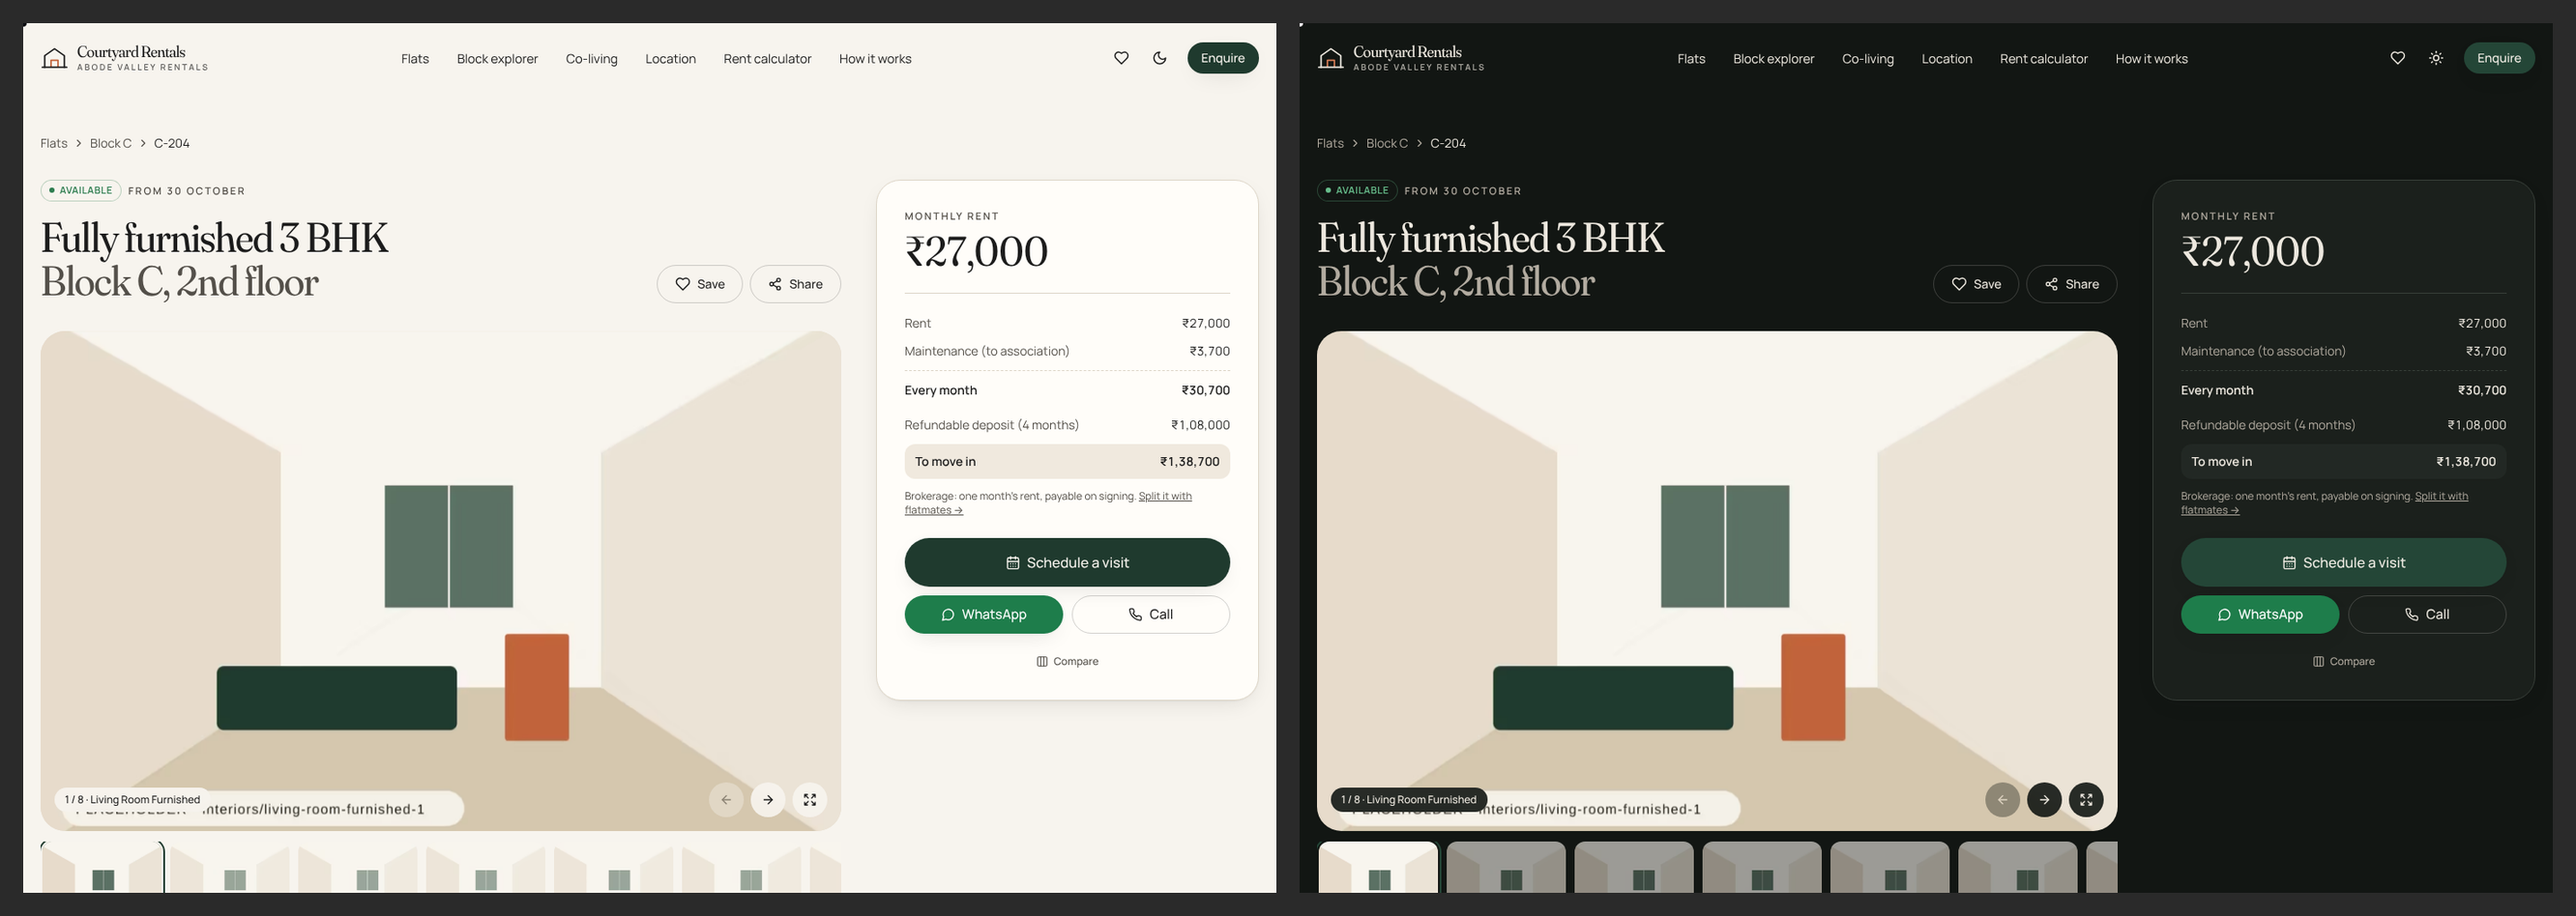
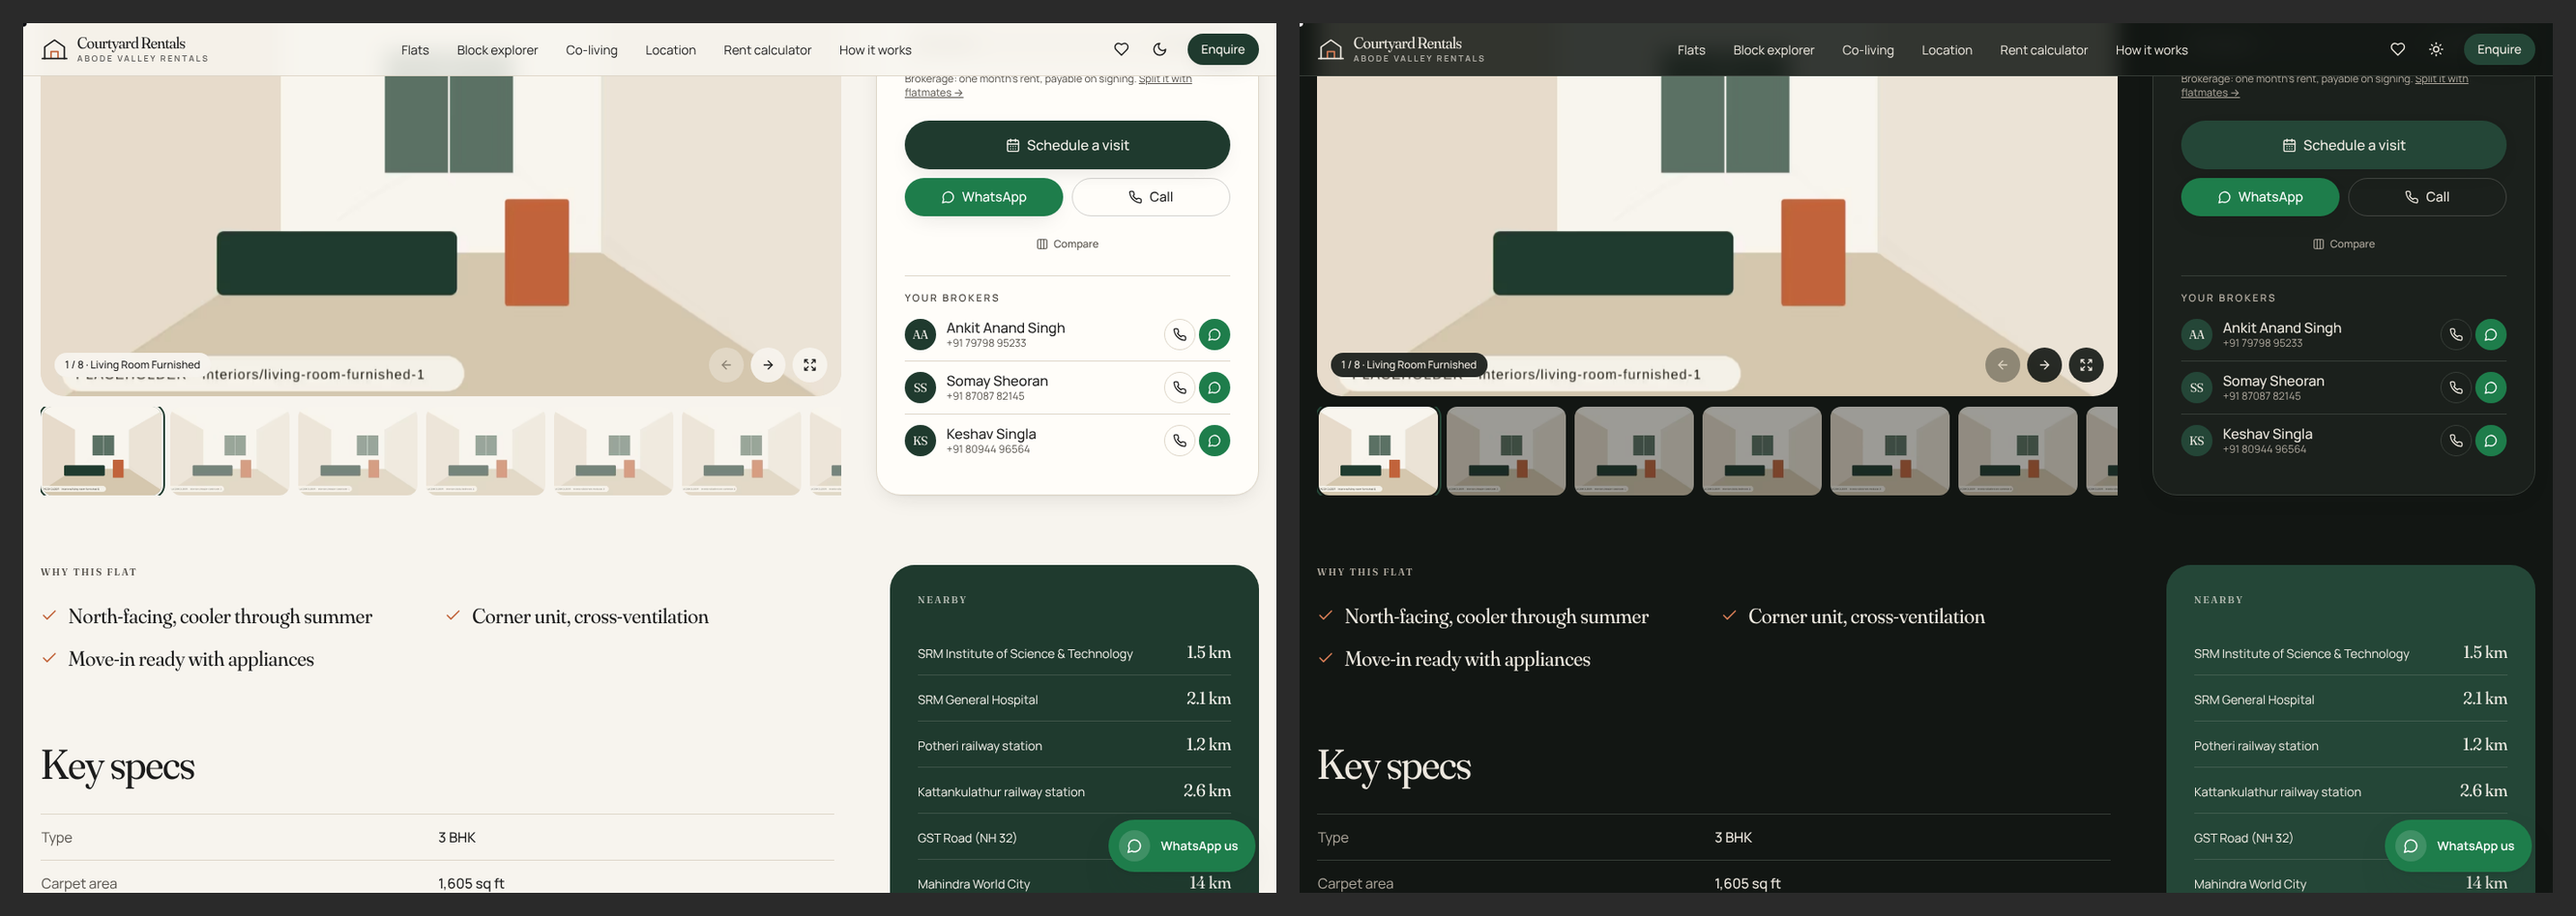
Add broker team (Ankit, Somay, Keshav) to contact, footer, flat pages and about
Claude-Session: https://claude.ai/code/session_01EnTokC2RsE6pinmD8HsrEY

diff --git a/components/team/broker-cards.tsx b/components/team/broker-cards.tsx
@@ -1,0 +1,39 @@
+import { Mail, MessageCircle, Phone } from "lucide-react";
+import type { Broker } from "@/lib/types";
+import { cn, whatsappLink } from "@/lib/utils";
+
+const initials = (name: string) => name.split(" ").map((p) => p[0]).slice(0, 2).join("");
+
+/** One card per broker with direct Call / WhatsApp / Email. Data: data/team.json */
+export function BrokerCards({ team, message, compact, className }: { team: Broker[]; message: string; compact?: boolean; className?: string }) {
+  return (
+    <ul className={cn(compact ? "divide-y divide-line" : "grid gap-5 sm:grid-cols-3", className)}>
+      {team.map((b) => (
+        <li key={b.id} className={cn(compact ? "flex items-center justify-between gap-3 py-3" : "rounded-3xl border border-line bg-card p-6")}>
+          <div className={cn("flex items-center gap-3", !compact && "mb-5")}>
+            <span className={cn("grid shrink-0 place-items-center rounded-full bg-forest font-display text-on-forest", compact ? "size-9 text-sm" : "size-12 text-lg")} aria-hidden>{initials(b.name)}</span>
+            <div>
+              <p className={cn("font-medium leading-tight", !compact && "font-display text-xl")}>{b.name}</p>
+              <p className="text-xs text-ink-soft">{compact ? b.phoneDisplay : b.role}</p>
+            </div>
+          </div>
+          {compact ? (
+            <div className="flex gap-1">
+              <a href={`tel:+${b.phone}`} aria-label={`Call ${b.name}`} className="grid size-9 place-items-center rounded-full border border-line hover:bg-sand"><Phone className="size-4" /></a>
+              <a href={whatsappLink(b.phone, message)} target="_blank" rel="noopener noreferrer" aria-label={`WhatsApp ${b.name}`} className="grid size-9 place-items-center rounded-full bg-[#1E7D4B] text-white"><MessageCircle className="size-4" /></a>
+            </div>
+          ) : (
+            <div className="space-y-2.5 text-sm">
+              <a href={`tel:+${b.phone}`} className="flex items-center gap-3 hover:underline"><Phone className="size-4 shrink-0" />{b.phoneDisplay}</a>
+              <a href={`mailto:${b.email}`} className="flex items-center gap-3 break-all hover:underline"><Mail className="size-4 shrink-0" />{b.email}</a>
+              <a href={whatsappLink(b.phone, message)} target="_blank" rel="noopener noreferrer"
+                className="mt-3 flex h-10 items-center justify-center gap-2 rounded-full bg-[#1E7D4B] font-medium text-white hover:bg-[#17663D]">
+                <MessageCircle className="size-4" /> WhatsApp {b.name.split(" ")[0]}
+              </a>
+            </div>
+          )}
+        </li>
+      ))}
+    </ul>
+  );
+}

diff --git a/app/contact/page.tsx b/app/contact/page.tsx
@@ -1,4 +1,5 @@
-import { Clock, Mail, MapPin, Phone } from "lucide-react";
+import { Clock, MapPin } from "lucide-react";
+import { BrokerCards } from "@/components/team/broker-cards";
 import { EnquiryForm } from "@/components/forms/enquiry-form";
 import { ScheduleVisit } from "@/components/flat/schedule-visit";
 import { PageHeader } from "@/components/ui/page-header";
@@ -17,6 +18,10 @@ export default function ContactPage({ searchParams }: { searchParams: { flat?: s
   return (
     <>
       <PageHeader label="Contact" title="Tell us what you're looking for." intro="Most enquiries get a call back within two working hours, with a shortlist of three to five flats." />
+      <section className="container mb-16" aria-labelledby="brokers-title">
+        <h2 id="brokers-title" className="eyebrow mb-6">Talk to a broker directly</h2>
+        <BrokerCards team={site.team} message="Hi, I'm looking for a flat to rent at Abode Valley, Kattankulathur." />
+      </section>
       <div className="container grid gap-12 lg:grid-cols-12">
         <div className="lg:col-span-8"><EnquiryForm flatId={flatId} /></div>
         <aside className="space-y-8 lg:col-span-4">
@@ -26,8 +31,6 @@ export default function ContactPage({ searchParams }: { searchParams: { flat?: s
             <div className="mt-6"><ScheduleVisit flatId={flatId} triggerProps={{ variant: "light", className: "w-full" }} /></div>
           </div>
           <ul className="space-y-5">
-            <li className="flex gap-4"><Phone className="mt-0.5 size-5 shrink-0" /><a className="link-underline" href={`tel:+${site.phone}`}>{site.phoneDisplay}</a></li>
-            <li className="flex gap-4"><Mail className="mt-0.5 size-5 shrink-0" /><a className="link-underline" href={`mailto:${site.email}`}>{site.email}</a></li>
             <li className="flex gap-4"><MapPin className="mt-0.5 size-5 shrink-0" /><span>{site.address}</span></li>
             <li className="flex gap-4"><Clock className="mt-0.5 size-5 shrink-0" /><span>{site.hours}</span></li>
           </ul>

diff --git a/lib/site.ts b/lib/site.ts
@@ -1,5 +1,6 @@
 import "server-only";
-import type { SiteConfig } from "./types";
+import type { Broker, SiteConfig } from "./types";
+import team from "@/data/team.json";
 
 /** Formats "919876543210" as "+91 98765 43210"; anything else is shown as given. */
 function displayPhone(digits: string) {
@@ -8,17 +9,27 @@ function displayPhone(digits: string) {
   return digits;
 }
 
-/** Single source of brand/contact config, read from the environment. See .env.example. */
+export function getTeam(): Broker[] {
+  return team.map((b) => ({ ...b, phoneDisplay: displayPhone(b.phone) }));
+}
+
+/**
+ * Single source of brand/contact config. PHONE / EMAIL in the environment override the default,
+ * which is the broker marked "primary" in data/team.json. See .env.example.
+ */
 export function getSiteConfig(): SiteConfig {
-  const phone = (process.env.PHONE ?? "{{PHONE}}").replace(/[^\d{}A-Z]/g, "");
+  const brokers = getTeam();
+  const lead = brokers.find((b) => b.primary) ?? brokers[0];
+  const phone = (process.env.PHONE || lead?.phone || "").replace(/\D/g, "");
   return {
     name: process.env.NEXT_PUBLIC_BROKERAGE_NAME || "[YOUR BROKERAGE NAME]",
     url: (process.env.NEXT_PUBLIC_SITE_URL || "http://localhost:3000").replace(/\/$/, ""),
     phone,
     phoneDisplay: displayPhone(phone),
-    email: process.env.EMAIL || "{{EMAIL}}",
+    email: process.env.EMAIL || lead?.email || "",
     address: process.env.ADDRESS || "{{ADDRESS}}",
     hours: process.env.OFFICE_HOURS || "Mon–Sat, 9:30am – 7:30pm",
     mapsKey: process.env.MAPS_KEY || "",
+    team: brokers,
   };
 }

diff --git a/components/layout/footer.tsx b/components/layout/footer.tsx
@@ -12,10 +12,20 @@ export function Footer() {
         <div className="grid gap-14 lg:grid-cols-12">
           <div className="lg:col-span-5">
             <p className="font-display text-display-md text-balance">Find your flat at Abode Valley, without the runaround.</p>
-            <div className="mt-8 space-y-1 text-on-forest/80">
-              <p><a className="link-underline" href={`tel:+${site.phone}`}>{site.phoneDisplay}</a></p>
-              <p><a className="link-underline" href={`mailto:${site.email}`}>{site.email}</a></p>
-              <p className="max-w-xs pt-3 text-sm leading-relaxed">{site.address}</p>
+            <ul className="mt-8 space-y-4 text-on-forest/85">
+              {site.team.map((b) => (
+                <li key={b.id}>
+                  <p className="font-medium text-on-forest">{b.name}</p>
+                  <p className="text-sm">
+                    <a className="link-underline" href={`tel:+${b.phone}`}>{b.phoneDisplay}</a>
+                    <span className="mx-2 opacity-40">·</span>
+                    <a className="link-underline break-all" href={`mailto:${b.email}`}>{b.email}</a>
+                  </p>
+                </li>
+              ))}
+            </ul>
+            <div className="mt-6 space-y-1 text-on-forest/80">
+              <p className="max-w-xs text-sm leading-relaxed">{site.address}</p>
               <p className="text-sm">{site.hours}</p>
             </div>
           </div>

diff --git a/app/about/page.tsx b/app/about/page.tsx
@@ -2,6 +2,8 @@ import Image from "next/image";
 import Link from "next/link";
 import { ArrowRight } from "lucide-react";
 import { getProcess } from "@/lib/content";
+import { getSiteConfig } from "@/lib/site";
+import { BrokerCards } from "@/components/team/broker-cards";
 import { blurProps } from "@/lib/images";
 import { pageMeta } from "@/lib/seo";
 import { PageHeader } from "@/components/ui/page-header";
@@ -33,7 +35,12 @@ export default function AboutPage() {
           </li>
         ))}
       </ol>
-      <div className="container mt-28 flex flex-wrap justify-center gap-3">
+      <section className="container mt-28" aria-labelledby="team-title">
+        <h2 id="team-title" className="font-display text-display-md">The team</h2>
+        <p className="mt-3 max-w-xl text-ink-soft">Three brokers, one estate. Call or WhatsApp whoever's convenient; we share one shortlist, so you won't repeat yourself.</p>
+        <BrokerCards className="mt-10" team={getSiteConfig().team} message="Hi, I'm looking for a flat to rent at Abode Valley." />
+      </section>
+      <div className="container mt-20 flex flex-wrap justify-center gap-3">
         <Button asChild size="lg"><Link href="/listings">Start with step one <ArrowRight /></Link></Button>
         <Button asChild size="lg" variant="outline"><Link href="/owners">I'm an owner</Link></Button>
       </div>

diff --git a/app/flats/[id]/page.tsx b/app/flats/[id]/page.tsx
@@ -12,6 +12,7 @@ import { JsonLd } from "@/lib/jsonld";
 import { FLOORS } from "@/lib/estate";
 import { cn, formatDate, formatINR, isAvailableNow, ordinal, typeLabel, whatsappLink } from "@/lib/utils";
 import { Gallery } from "@/components/flat/gallery";
+import { BrokerCards } from "@/components/team/broker-cards";
 import { ScheduleVisit } from "@/components/flat/schedule-visit";
 import { ShareButton } from "@/components/flat/share-button";
 import { RecentlyViewed } from "@/components/flat/recently-viewed";
@@ -133,6 +134,10 @@ export default async function FlatPage({ params }: { params: { id: string } }) {
                 </div>
               </div>
               <div className="mt-5 flex justify-center"><CompareToggle id={flat.id} /></div>
+              <div className="mt-6 border-t border-line pt-4">
+                <p className="eyebrow mb-1">Your brokers</p>
+                <BrokerCards compact team={site.team} message={waText} />
+              </div>
             </div>
           </aside>
         </div>

diff --git a/lib/types.ts b/lib/types.ts
@@ -85,6 +85,16 @@ export interface Place {
   lng: number;
 }
 
+export interface Broker {
+  id: string;
+  name: string;
+  role: string;
+  phone: string; // digits, with country code
+  phoneDisplay: string;
+  email: string;
+  primary?: boolean;
+}
+
 export interface SiteConfig {
   name: string;
   url: string;
@@ -94,4 +104,5 @@ export interface SiteConfig {
   address: string;
   hours: string;
   mapsKey: string;
+  team: Broker[];
 }

diff --git a/lib/seo.ts b/lib/seo.ts
@@ -33,6 +33,7 @@ export function localBusinessLd() {
     areaServed: ["Kattankulathur", "Potheri", "SRM Nagar", "Guduvanchery", "Maraimalai Nagar"],
     openingHours: "Mo-Sa 09:30-19:30",
     priceRange: "₹₹",
+    employee: site.team.map((b) => ({ "@type": "Person", name: b.name, jobTitle: b.role, telephone: `+${b.phone}`, email: b.email })),
   };
 }
 
